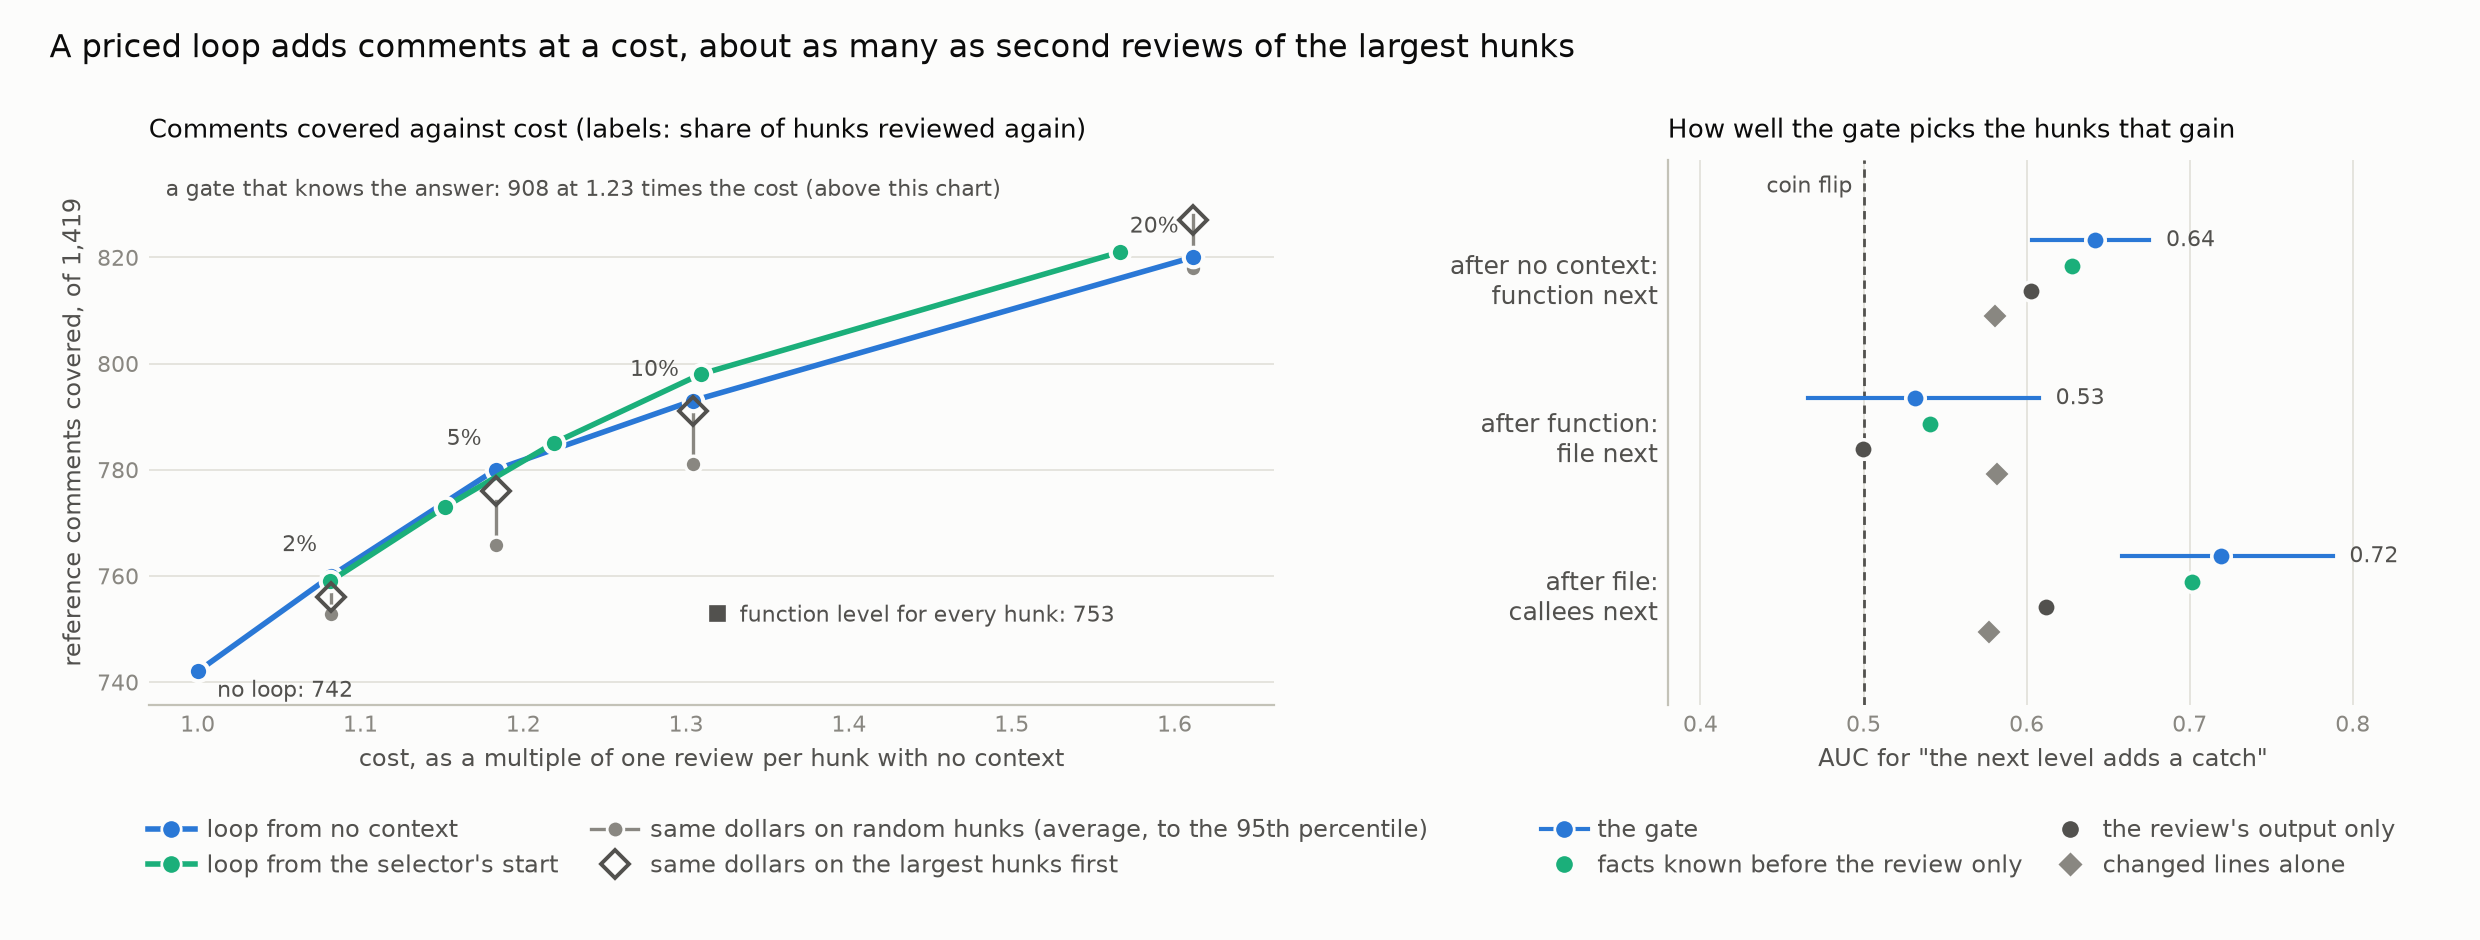
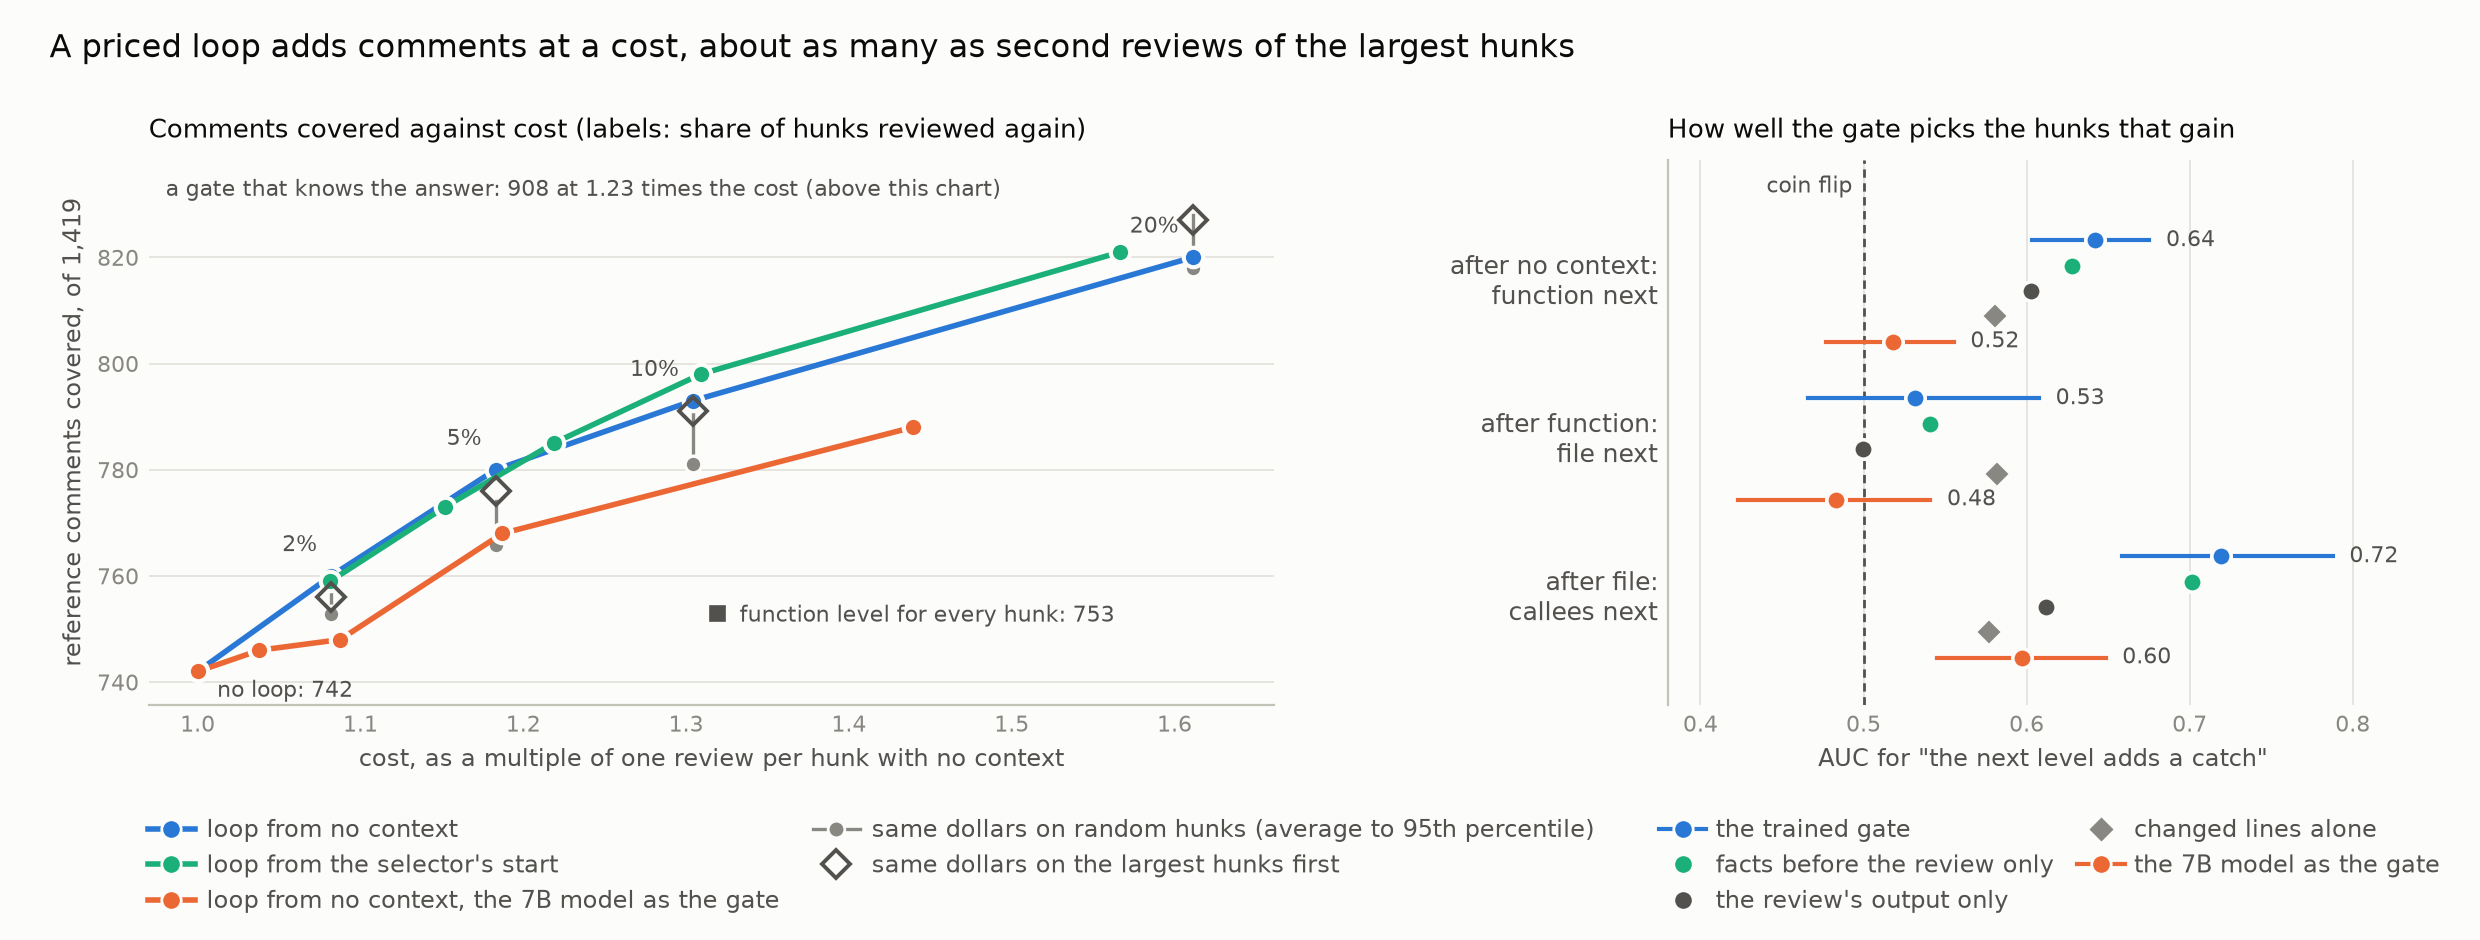
docs: complete the loop write-up with the 7B gate
Section 5 of docs/selector_loop_185.md now has all three steps of the 7B
model as the gate and its loop from both starts; the figure shows both
gates. The status paragraph, the claims and the docs index row follow.

diff --git a/docs/selector_loop_185.md b/docs/selector_loop_185.md
@@ -1,10 +1,10 @@
 # A priced feedback loop on top of the selector: all 185 AACR pull requests (November 28, 2026)
 
-**Status: simulated on November 28, 2026 from saved reviews; no new review was run.** On all 185 buildable AACR-Bench pull requests, a loop that reviews a few hunks a second time with more context covers more reference comments than one review per hunk: 760 to 820 of 1,419 against 742, at 1.08 to 1.61 times the cost. Each extra comment costs 3.4 to 5.8 times what a comment costs in the first pass. While at most a tenth of the hunks are reviewed again, the loop's gate does better than the same dollars spent on second reviews of random hunks, but only 2 to 4 comments better than spending them on the largest hunks. A gate that knew which hunks gain would cover 908 at 1.23 times the cost, so the loop is limited by its gate, which ranks those hunks at AUC 0.64. Letting the selector choose the starting level does about the same at equal cost. A 7B code model asked directly, in place of the trained gate, is at chance on the first step (AUC 0.52); its other two steps were not scored when this was written.
+**Status: simulated on November 28, 2026 from saved reviews; no new review was run.** On all 185 buildable AACR-Bench pull requests, a loop that reviews a few hunks a second time with more context covers more reference comments than one review per hunk: 760 to 820 of 1,419 against 742, at 1.08 to 1.61 times the cost. Each extra comment costs 3.4 to 5.8 times what a comment costs in the first pass. While at most a tenth of the hunks are reviewed again, the loop's gate does better than the same dollars spent on second reviews of random hunks, but only 2 to 4 comments better than spending them on the largest hunks. A gate that knew which hunks gain would cover 908 at 1.23 times the cost, so the loop is limited by its gate, which ranks those hunks at AUC 0.64. Letting the selector choose the starting level does about the same at equal cost. A 7B code model asked directly, in place of the trained gate, does not work: it ranks the hunks at AUC 0.52, 0.48 and 0.60 on the three steps, and its loop covers no more than the same dollars spent on random hunks.
 
 This is the feedback loop the project had kept as later work: the one-shot selector stays, and a hunk can still get more context when one review is not enough, at a price on each extra request. It follows the selector results on all 185 pull requests ([selector185_must_fix.md](selector185_must_fix.md), Section 1) and the level results ([aacr_confirmation_run.md](aacr_confirmation_run.md)). Two earlier tests on 28 pull requests asked whether a first review tells which hunks need the file ([per_hunk_review_test.md](per_hunk_review_test.md), Sections 20.4 and 20.5). What a selector has to beat is in [project_target.md](project_target.md), Section 3.
 
-![Comments covered against cost for the loop from both starts and for the same dollars spent without a gate, and how well the gate ranks the hunks at each step](figures/selector_loop_185/loop.png)
+![Comments covered against cost for the loop from both starts, for the loop with the 7B model as the gate and for the same dollars spent without a gate, and how well each gate ranks the hunks at each step](figures/selector_loop_185/loop.png)
 
 ## 1. What was simulated
 
@@ -73,7 +73,7 @@ The selector's choice is made once, before any review. The same gates and prices
 - **The loop adds as much on top of the selector's start:** 14 to 62 comments over the start alone.
 - **The gates were not retrained for this start.** They were trained for hunks that start with no context.
 
-## 5. A code model as the gate (first step only so far)
+## 5. A code model as the gate
 
 The trained gate can be replaced by a model that is asked the question directly. The model is Qwen2.5-Coder-7B-Instruct, untrained, the one the selector uses. For each hunk it reads the question, the hunk as the reviewer saw it with no context (cut to 1,400 tokens, the diff first) and the findings of the review just made (numbered, cut to 500 tokens). Its score is log P(Yes) − log P(No) for the next word, and the price is compared with that score. The question was written once, before any score was looked at:
 
@@ -85,20 +85,31 @@ only when it is likely to pay off. Would the second review likely find a real pr
 that the first review missed? Answer with Yes or No only.
 ```
 
-**Status: only the first of the three steps is scored.** The steps after the function and file reviews were still running when this was written, so the loop with this gate is not reported yet.
+**How well it ranks the hunks that gain** (AUC, with the trained gate of Section 2 beside it):
 
-On the first step, the hunks where the function review adds a catch (215 of 1,811):
+| Step | 7B model asked after the review [95% interval] | Trained gate | Difference [95% interval] | It answers Yes for | Yes where the next level adds a catch, elsewhere |
+|---|---|---|---|---|---|
+| After no context: function next | 0.518 [0.477, 0.555] | 0.642 | −0.124 [−0.172, −0.074] | 62.2% of hunks | 65.1%, 61.8% |
+| After function: file next | 0.483 [0.423, 0.541] | 0.532 | −0.049 [−0.148, +0.026] | 50.6% | 46.2%, 51.0% |
+| After file: callees next | 0.597 [0.545, 0.648] | 0.719 | −0.122 [−0.220, −0.042] | 54.2% | 67.6%, 53.7% |
 
-| Score | AUC [95% interval] |
-|---|---|
-| 7B model asked after the no-context review | 0.518 [0.477, 0.555] |
-| Trained gate | 0.642 [0.603, 0.675] |
-| The same 7B model asked before any review (the selector's question) | 0.604 |
-| Changed lines alone | 0.581 |
+- **It is at chance on the first two steps,** where almost all second reviews happen.
+- **Its Yes barely depends on whether a second review pays off:** 65% against 62% on the first step.
+- **It ranks worse than its own answer before the review.** The selector's question, asked with no review to read, ranks the first step's hunks at 0.604 (Section 2).
+- **The last step is above chance** (0.597), still 0.12 below the trained gate, on 68 hunks.
 
-- **Asked this way, the 7B model is at chance.** It is 0.124 below the trained gate [−0.172, −0.074].
-- **It answers Yes for most hunks:** 62.2% of all, 65.1% where the function review adds a catch and 61.8% elsewhere.
-- **It ranks worse than its own answer before the review.** The selector's question, asked with no review to read, ranks the same hunks at 0.604.
+**The loop with this gate,** from no context, at the prices that send the same shares of hunks back:
+
+| Price that sends back | Hunks reviewed again | Extra reviews | Comments covered | Cost, times one review per hunk | Same dollars on random hunks: average (95th percentile) | Random is as good in | Same dollars on the largest hunks |
+|---|---|---|---|---|---|---|---|
+| 2% | 37 | 49 | 746 | 1.04 | 747.0 (751) | 74% of draws | 749 |
+| 5% | 91 | 117 | 748 | 1.09 | 753.6 (760) | 98% | 758 |
+| 10% | 182 | 245 | 768 | 1.19 | 766.4 (775) | 39% | 776 |
+| 20% | 363 | 547 | 788 | 1.44 | 797.6 (808) | 95% | 812 |
+
+- **It does no better than second reviews of random hunks** at any price, and worse than the largest hunks first at every price.
+- **It costs less than the trained gate's loop at the same share** (1.19 against 1.30 at 10%, with more extra reviews), so the hunks it sends back are cheaper to review, and it covers fewer comments (768 against 793).
+- **From the selector's start it is the same:** 762, 765, 774 and 791 comments at 1.11, 1.16, 1.25 and 1.48 times the cost, with random hunks as good in 66 to 96% of draws.
 
 ## 6. What can and cannot be claimed
 
@@ -107,7 +118,7 @@ On the first step, the hunks where the function review adds a catch (215 of 1,81
 3. **Cannot be claimed:** that the gate uses what the first review says. The facts known before the review carry almost all of its ranking, and reviewing the largest hunks again does about as well.
 4. **Cannot be claimed:** that the gain comes from the added context. A second review at the same level was not run on these pull requests, and two runs of one level already differ (Section 7).
 5. **Cannot be claimed:** that the selector's start improves on starting with no context.
-6. **Cannot be claimed:** that a code model can stand in for the trained gate. The one question tried is at chance on the first step.
+6. **Cannot be claimed:** that a code model can stand in for the trained gate. The one question tried is at chance on the first two steps, and its loop does no better than random second reviews.
 
 ## 7. Limits
 
@@ -131,8 +142,10 @@ HF_HUB_OFFLINE=1 .venv/bin/python scripts/analysis/selector_gate_llm.py
                                                                    # the 7B gate's scores, results/selector185_llm/gate_llm_scores.csv
 .venv/bin/python scripts/analysis/selector_loop.py --gate-scores results/selector185_llm/gate_llm_scores.csv \
     --gate-name "7B model asked after the review"                  # Section 5
+.venv/bin/python scripts/analysis/selector_loop.py --compare results/selector185_llm/selector_loop_gate_llm_scores.json \
+    --compare-name "the 7B model"                                  # the figure with both gates
 ```
 
 - `selector_loop.py` calls no model. It prints every number of Sections 2 to 4, writes `results/selector185_llm/selector_loop.json` and draws the figure. With `--gate-scores` it prints the given gate's AUC beside the trained gate's and runs the loop with it.
-- `selector_gate_llm.py` runs the 7B model from the Hugging Face cache. The first step took 39 minutes on a laptop (Apple M4 Max, float16). It writes the scores file only when all three steps are done, and a stopped run continues from its cache.
+- `selector_gate_llm.py` runs the 7B model from the Hugging Face cache. The three steps took 39, 41 and 41 minutes on a laptop (Apple M4 Max, float16), with other jobs running beside it. It writes the scores file only when all three steps are done, and a stopped run continues from its cache.
 - Tests: `tests/test_selector_loop.py` and `tests/test_selector_gate_llm.py`.

diff --git a/.cursor/skills/cs536-project/docs-index.md b/.cursor/skills/cs536-project/docs-index.md
@@ -21,7 +21,7 @@ also be read; distinguish official guidance from historical handoffs.
 | `docs/aacr_confirmation_run.md` | The four kept levels on the other 92 buildable AACR PRs, and on all 185 (Nov 27, 2026): 884 hunks, 735 reference comments, same pipeline. Two comparisons fixed before the run: blocking comments, wider levels minus no context, not confirmed (−3.6 points [−12.1, +4.6] against +15.8 on the first 93); `Repo Level` comments, file minus function, same direction but not confirmed (+3.2 [−5.6, +12.5]). On all 185 recall is 52.3 / 53.1 / 52.3 / 53.2% and severity score 0.578 / 0.589 / 0.597 / 0.599 for `H01_min` / `H02_function` / `H03_file` / `H04_callees1`; no level beats no context under any weighting, at 1.3 to 2.2 times the cost. The reviewer's wording does change with context on both sets (asks the author to check: 52% with no context, 41% at callees). A third of the comments are covered at some levels only; 337 of 1,811 hunks are positive. Supersedes the gain reported in `docs/aacr_50pct_run.md`. Numbers and figures from `scripts/analysis/confirmation_run_report.py` |
 | `docs/selector50_run.md` | Context selectors on the AACR 50% set (Nov 23, 2026): 8 non-LLM selectors (laptop) and 13 LLM selectors (Qwen2.5-Coder 0.5B to 14B: zero-shot, embeddings, LoRA; Colab A100) on the same 5 repository folds, label, budgets and scoring, merged into one set of tables from the model caches. No selector beats random choice at any budget, nor the tabular baseline or cheapest-first rule in a paired bootstrap; always `H02_function` stays the choice. Non-LLM AUC is about 0.55 whatever the model; LLM AUC rises with size to 7B and stops: zero-shot 7B 0.591 and 14B 0.592 [0.538, 0.640] are the only intervals above 0.5, but neither carries to a budget and the 7B result disagrees with the 15% pilot; LoRA is the weakest family. Corrects the pilot note that the limit was the data |
 | `docs/selector185_must_fix.md` | Do the selectors give more context to must-fix hunks? All 185 AACR PRs (Nov 28, 2026), computed from saved results. 85 of the 1,811 hunks carry a `blocking` reference comment on their lines (94 such comments). The untrained 7B model answers Yes for 85.9% of them against 71.8% of other hunks (+14.1 points [+7.0, +20.4]); at 30% of the function level's extra tokens the 7B model and the two fact-based selectors upgrade 41 to 42% of them against 22 to 26% of others; the 1.5B and 3B models do not beyond chance. Two limits: changed lines alone rank must-fix hunks as well (AUC 0.688 against 0.625 for the 7B model), and the must-fix comments covered do not rise (59 of 94 with no context, 60 / 61 / 61 under the 7B model's choice, at most 60 / 62 / 61 if exactly the must-fix hunks were upgraded). Section 1 also holds the selectors' scores on all 185 PRs (zero-shot AUC 0.552 / 0.565 / 0.576 for 1.5B / 3B / 7B; none beats random choice at a budget). Script `scripts/analysis/selector_must_fix.py`, figure in `docs/figures/selector185_must_fix/` |
-| `docs/selector_loop_185.md` | A priced feedback loop on top of the selector, simulated on the saved reviews of all 185 AACR PRs (Nov 28, 2026; no new review). A hunk is reviewed at its start level; a gate's score against a price decides whether it is reviewed again one level up, findings kept together, every request paid. With a trained gate (logistic regression on 29 pre-review facts and 7 facts of the review, out of fold) the loop from no context covers 760 / 780 / 793 / 820 of 1,419 comments at 1.08 / 1.18 / 1.30 / 1.61 times the cost (2 / 5 / 10 / 20% of hunks reviewed again), against 742 with no loop and 753 for the function level for every hunk at 1.32; each extra comment costs 3.4 to 5.8 times a first-pass comment. Up to 10% of hunks it beats the same dollars on random hunks but is only 2 to 4 comments above the largest hunks first; a gate that knows the answer would cover 908 at 1.23. Gate AUC 0.642 / 0.532 / 0.719 for the three steps, almost all from facts known before the review. The selector picking the start (7B model, 30% budget) does about the same at equal cost. A 7B code model asked directly as the gate is at chance on the first step (AUC 0.518); its other steps were not scored when written. Not shown: that the gain comes from context and not from a second review, and precision |
+| `docs/selector_loop_185.md` | A priced feedback loop on top of the selector, simulated on the saved reviews of all 185 AACR PRs (Nov 28, 2026; no new review). A hunk is reviewed at its start level; a gate's score against a price decides whether it is reviewed again one level up, findings kept together, every request paid. With a trained gate (logistic regression on 29 pre-review facts and 7 facts of the review, out of fold) the loop from no context covers 760 / 780 / 793 / 820 of 1,419 comments at 1.08 / 1.18 / 1.30 / 1.61 times the cost (2 / 5 / 10 / 20% of hunks reviewed again), against 742 with no loop and 753 for the function level for every hunk at 1.32; each extra comment costs 3.4 to 5.8 times a first-pass comment. Up to 10% of hunks it beats the same dollars on random hunks but is only 2 to 4 comments above the largest hunks first; a gate that knows the answer would cover 908 at 1.23. Gate AUC 0.642 / 0.532 / 0.719 for the three steps, almost all from facts known before the review. The selector picking the start (7B model, 30% budget) does about the same at equal cost. A 7B code model asked directly as the gate does not work: AUC 0.518 / 0.483 / 0.597 on the three steps, and its loop (746 / 748 / 768 / 788 at 1.04 / 1.09 / 1.19 / 1.44) covers no more than the same dollars on random hunks. Not shown: that the gain comes from context and not from a second review, and precision |
 | `docs/review_score_design.md` | Design of a severity-weighted review score, on the branch `review-score` (started Nov 15, 2026): why recall and precision fall short, the signals (severity labels, category, written by a person, acted on; AACR's v2 membership is not used), the score's three parts, the few numbers that are choices and how they are set and checked, the labelling plan and its checks; Section 12: the pilot on five PRs; Section 13: rating the reviewer's unmatched findings, tried and dropped, so the score is severity-weighted recall only; Section 14: the 190 labels of the 28-PR run (15 blocking, 65 should fix, 110 nit) and what the score changed in the reading |
 
 Re-list `docs/` if the folder may have changed. Prefer the newest dated proposal, report, or instructor note when sources disagree.
